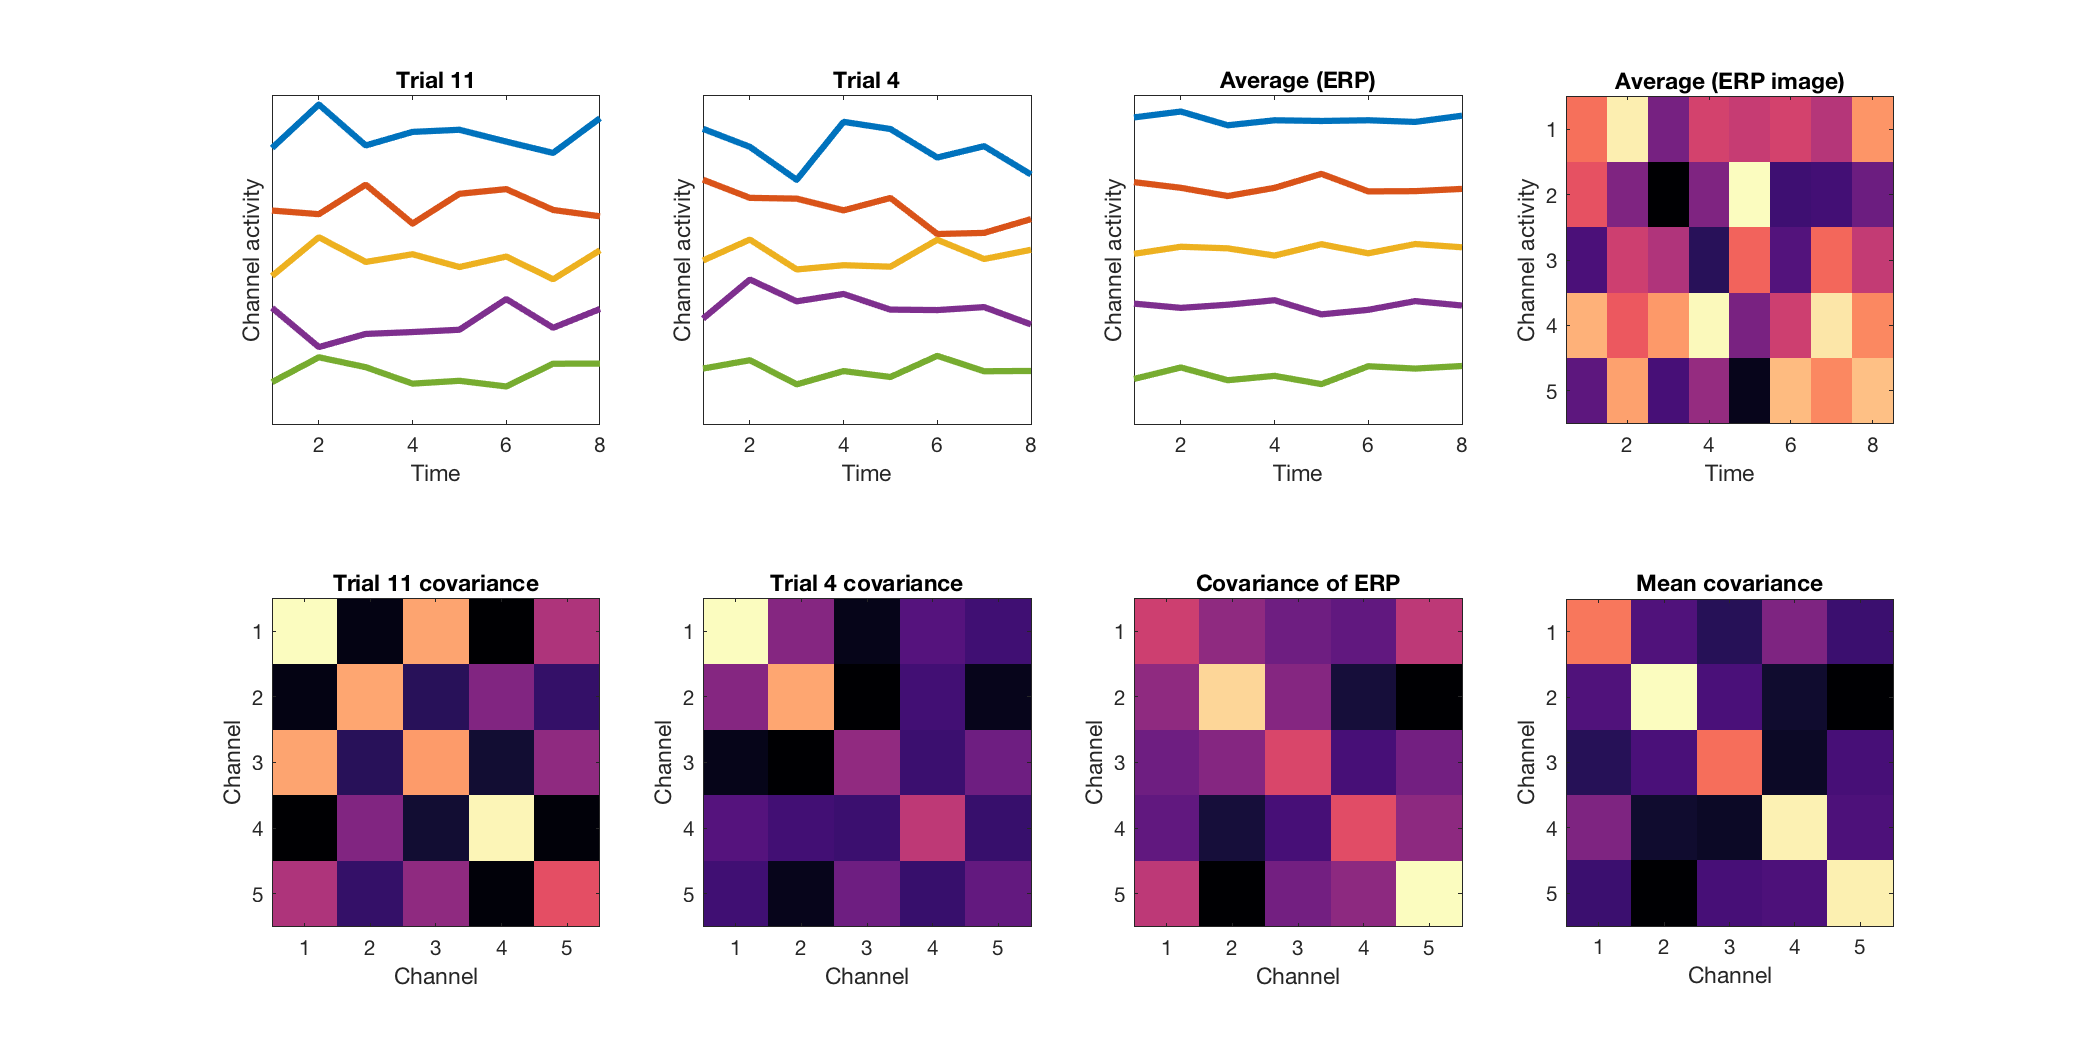
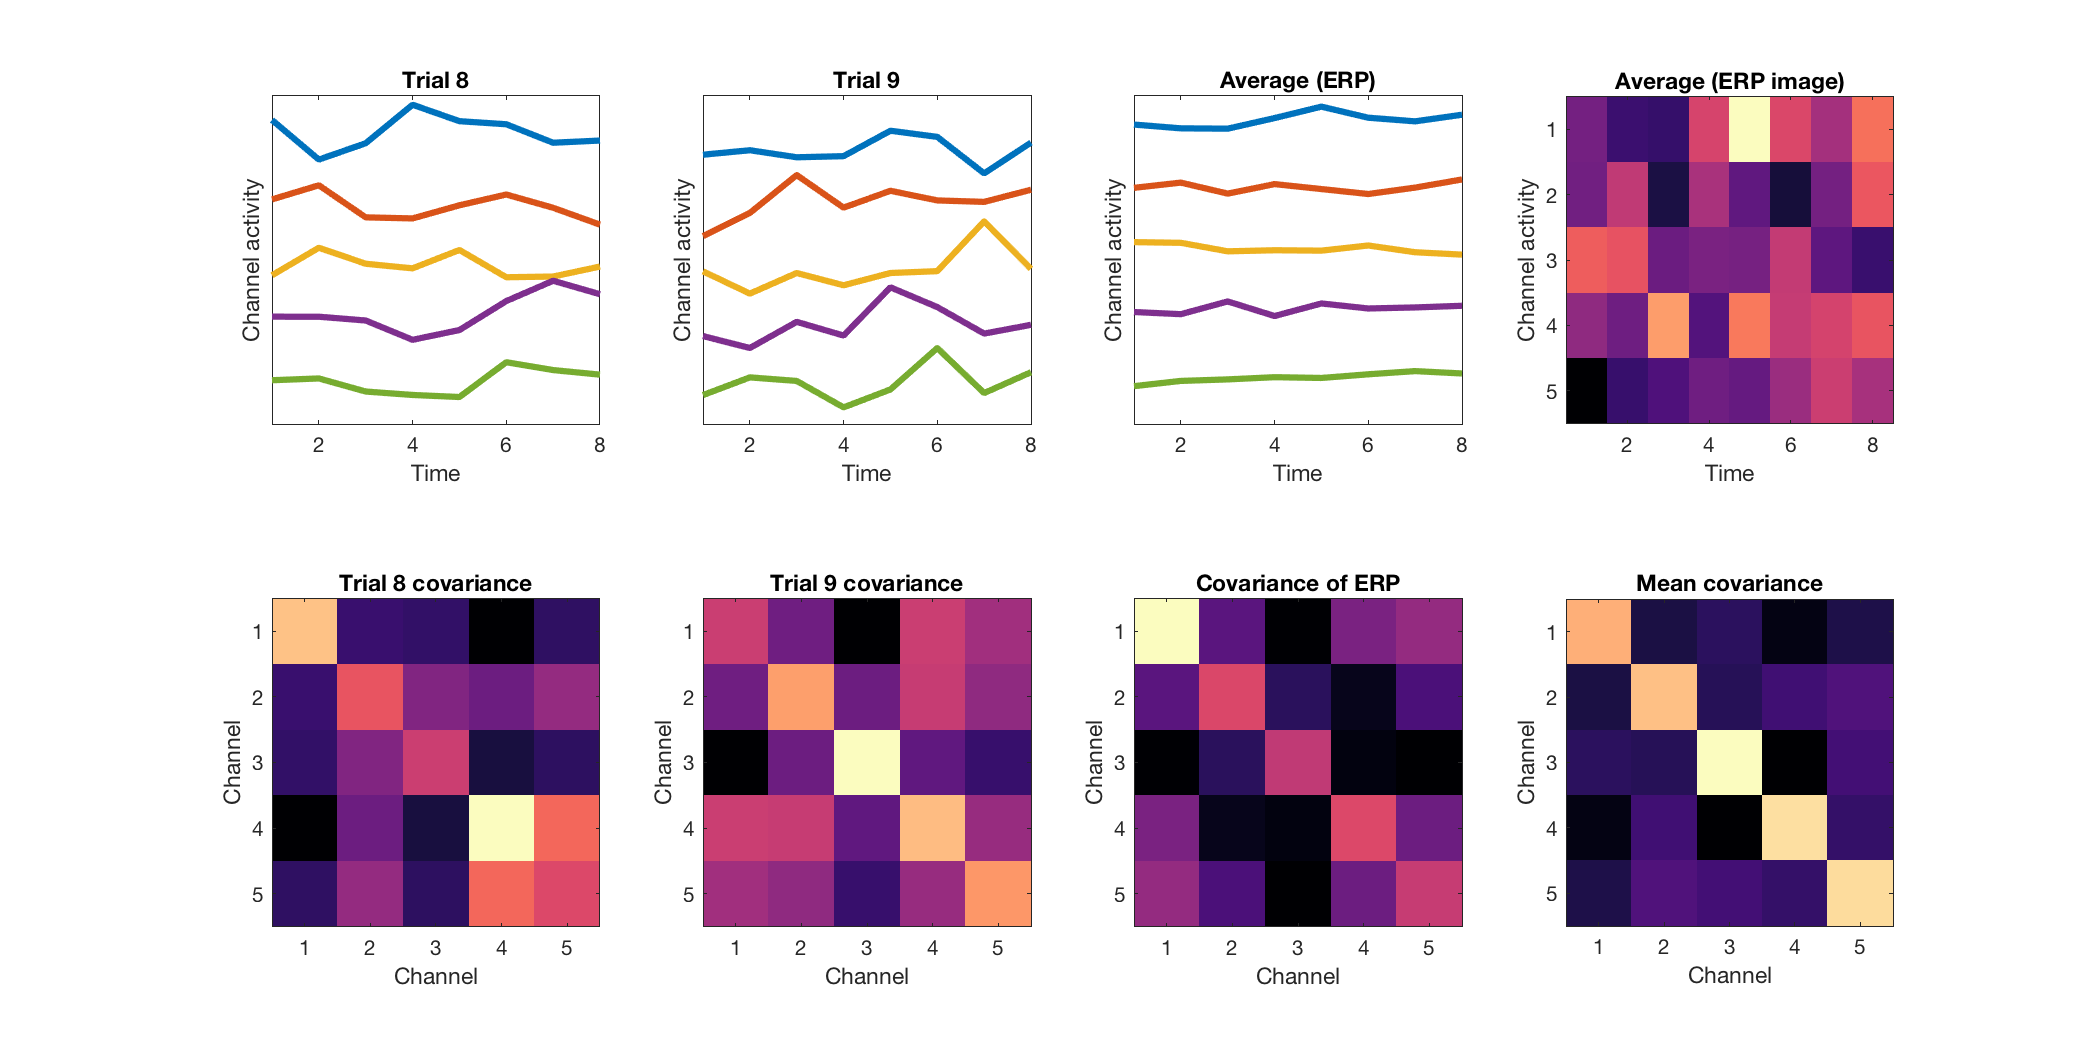
new fig

diff --git a/fig1_covariance.m b/fig1_covariance.m
@@ -1,6 +1,6 @@
 clc, clear;
 
-rng(11); % set random seed for reproducibility
+rng(2); % set random seed for reproducibility
 
 nchan = 5;
 ntime = 8;
